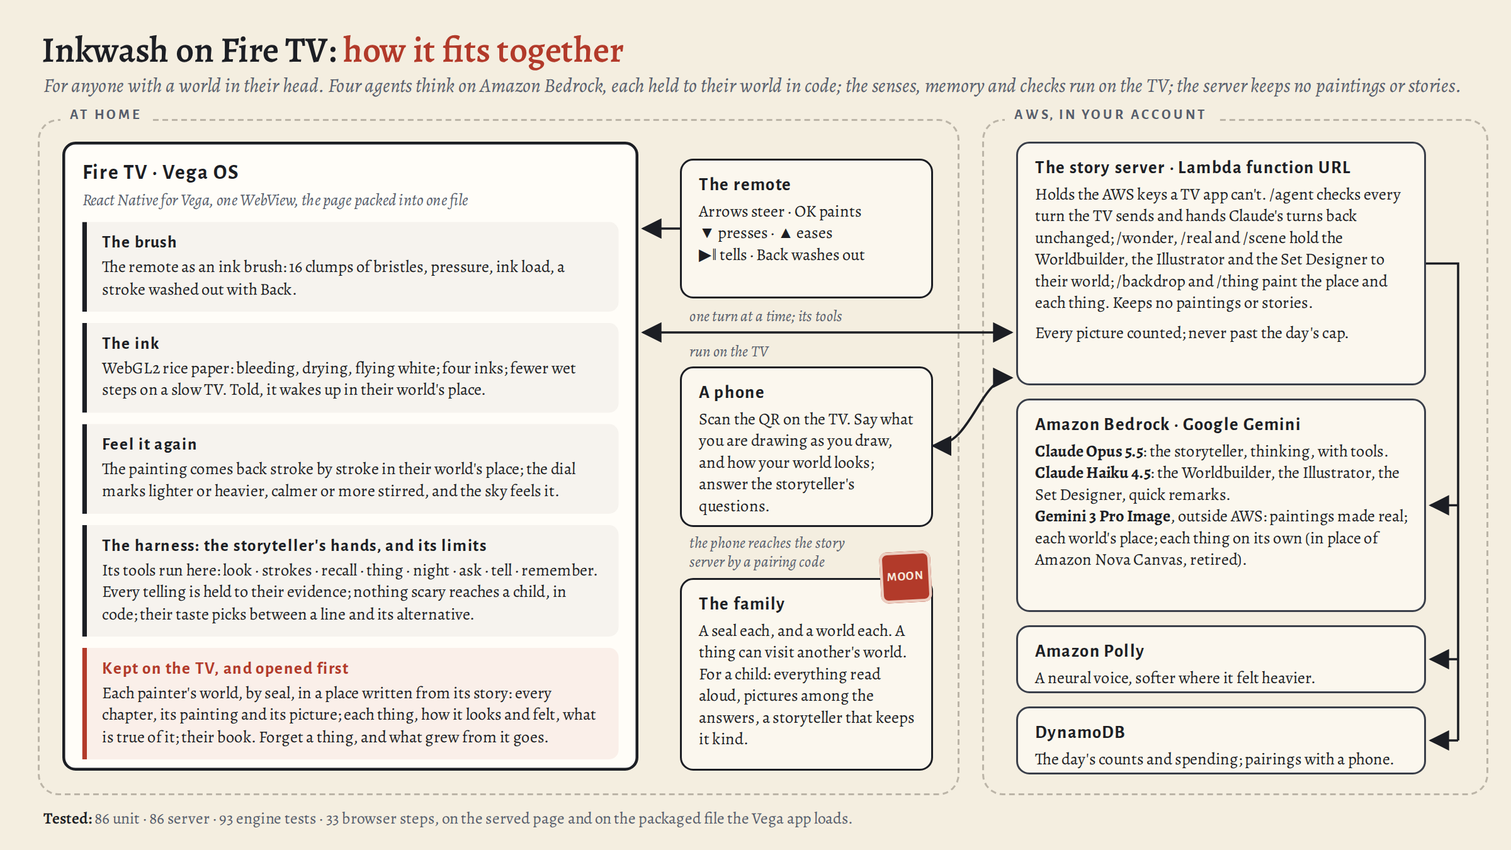
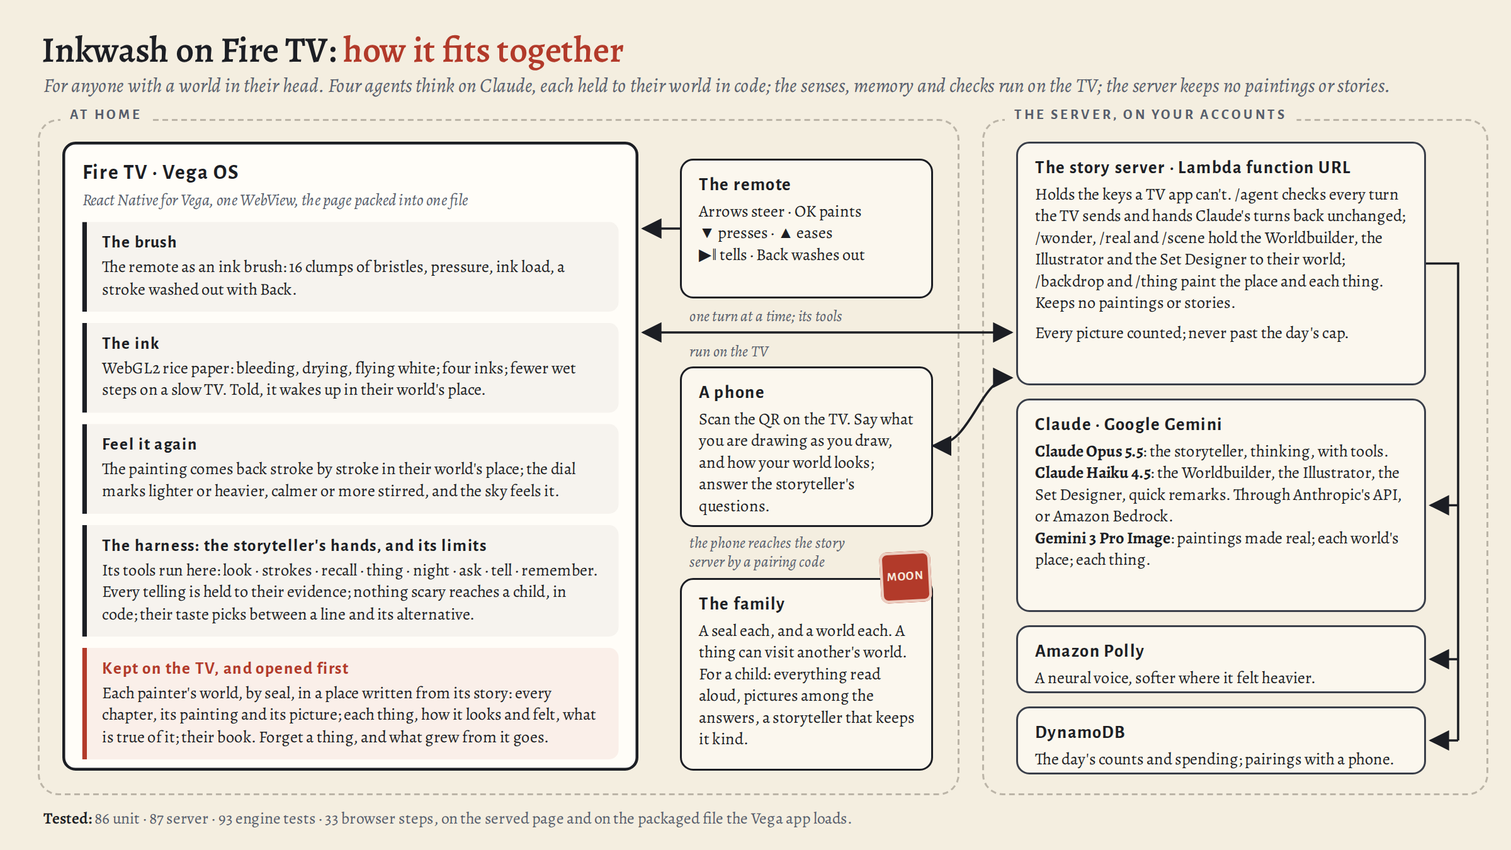
Claude through Anthropic's own API when Bedrock isn't open to the account
With an AnthropicKey, the story server calls Claude with the Anthropic
SDK's own client (the same requests and models); without one, Claude on
Amazon Bedrock as before. The privacy page says which. FRICTION_LOG entry 15.

diff --git a/tv/docs/architecture.html b/tv/docs/architecture.html
@@ -35,10 +35,10 @@
 <body>
 <div id="d">
   <h1>Inkwash on Fire TV: <span>how it fits together</span></h1>
-  <p class="sub">For anyone with a world in their head. Four agents think on Amazon Bedrock, each held to their world in code; the senses, memory and checks run on the TV; the server keeps no paintings or stories.</p>
+  <p class="sub">For anyone with a world in their head. Four agents think on Claude, each held to their world in code; the senses, memory and checks run on the TV; the server keeps no paintings or stories.</p>
 
   <div class="zone" style="left:40px; top:126px; width:972px; height:712px"><span class="label">At home</span></div>
-  <div class="zone" style="left:1040px; top:126px; width:532px; height:712px"><span class="label">AWS, in your account</span></div>
+  <div class="zone" style="left:1040px; top:126px; width:532px; height:712px"><span class="label">The server, on your accounts</span></div>
 
   <div class="box tv" style="left:66px; top:150px; width:610px; height:666px">
     <h2>Fire TV · Vega OS</h2>
@@ -66,12 +66,12 @@
 
   <div class="box aws" style="left:1076px; top:150px; width:434px; height:258px">
     <h2>The story server · Lambda function URL</h2>
-    <p>Holds the AWS keys a TV app can't. /agent checks every turn the TV sends and hands Claude's turns back unchanged; /wonder, /real and /scene hold the Worldbuilder, the Illustrator and the Set Designer to their world; /backdrop and /thing paint the place and each thing. Keeps no paintings or stories.</p>
+    <p>Holds the keys a TV app can't. /agent checks every turn the TV sends and hands Claude's turns back unchanged; /wonder, /real and /scene hold the Worldbuilder, the Illustrator and the Set Designer to their world; /backdrop and /thing paint the place and each thing. Keeps no paintings or stories.</p>
     <p style="margin-top:8px">Every picture counted; never past the day's cap.</p>
   </div>
   <div class="box aws" style="left:1076px; top:422px; width:434px; height:226px">
-    <h2>Amazon Bedrock · Google Gemini</h2>
-    <p><b>Claude Opus 5.5</b>: the storyteller, thinking, with tools.<br><b>Claude Haiku 4.5</b>: the Worldbuilder, the Illustrator, the Set Designer, quick remarks.<br><b>Gemini 3 Pro Image</b>, outside AWS: paintings made real; each world's place; each thing on its own (in place of Amazon Nova Canvas, retired).</p>
+    <h2>Claude · Google Gemini</h2>
+    <p><b>Claude Opus 5.5</b>: the storyteller, thinking, with tools.<br><b>Claude Haiku 4.5</b>: the Worldbuilder, the Illustrator, the Set Designer, quick remarks. Through Anthropic's API, or Amazon Bedrock.<br><b>Gemini 3 Pro Image</b>: paintings made real; each world's place; each thing.</p>
   </div>
   <div class="box aws" style="left:1076px; top:662px; width:434px; height:72px">
     <h2>Amazon Polly</h2>
@@ -103,7 +103,7 @@
     <text class="tag" x="730" y="600">server by a pairing code</text>
   </svg>
 
-  <p class="foot"><b>Tested:</b> 86 unit · 86 server · 93 engine tests · 33 browser steps, on the served page and on the packaged file the Vega app loads.</p>
+  <p class="foot"><b>Tested:</b> 86 unit · 87 server · 93 engine tests · 33 browser steps, on the served page and on the packaged file the Vega app loads.</p>
 </div>
 </body>
 </html>

diff --git a/tv/README.md b/tv/README.md
@@ -63,7 +63,7 @@ drawing wakes into that place, Step inside opens in it, and the TV at rest shows
     walking through their world: where each thing stands in it, the eye's walk, where it stands
     before a thing (looking up to what is in the sky), and what was told of each thing, night by
     night; and each thing made real on its own: the part of the paper painted, its white cut away, how it springs up, and how a thing hops; and the opening, a night drawn as light at an even pace, never naming who tells the story; and the ledger that caps what the demo's pictures may cost; and worlds that meet: a thing visiting one world at a time, sent home, and let go with its world or its painter; nothing frightening sent to a child's world, and a child's storyteller told only what is gentle of it; where a visitor stands; and the storyteller told what is visiting, a line naming it counted as theirs, and the visitor never kept as a thing of the world it visits; never two things of one name in a world; and picture choices, an answer naming the thing of their world it says; and pictures: how they said a thing looks, on its card and in what its picture is made from, and how much of a picture Nova Canvas cut out is left; and walking inside a world built from their picture, a press a step or a turn, never far from where it was taken; and how a long story is held together: told to them as "you" (their words with how the story says them, a line in "I" sent back and then said as "you", what is kept kept as "you"), what happens next carried on from where it stopped and kept after the story so far, the last chapters word for word and older ones as fenced recaps, the other way to say a line heard at once on "not quite" (only a way that holds), and what it remembered kept with the chapter, on its page, and gone with what is forgotten; and what goes wrong: a world that can't be read opening empty with what was kept set aside, never written over; the storyteller's tools only by name; a question for the phone sent again when a poll doesn't get through; and a family kept wrongly holding one painter to an id and to a seal; and all around a picture and painted again: the panorama's sheet, looking across it with ◀ ▶, and the look a picture is painted again in, one not yet tried first;
-  - 86 tests for the story server, among them never paid twice (a request being made waited for, one made answered again for ten minutes and not counted again, only what was made kept, a world asked for twice one world), and among them it comes alive (only a picture the size Nova Reel takes, one six-second shot moving softly through its scene, asked for and looked in on until it is made and looked for only in its own job's folder, counted each day and in the day's spending, and left still when Reel's filter turns it down), walk inside (a quick world asked for from the picture and its scene, private to the guide, looked in on until it is built, the lighter file a TV can draw handed over through the guide, none without a key or past the day's count, priced as it is asked for), all around it (only a sheet and mask the size Nova Canvas widens, the picture kept and its sides painted in its own look, a child's gentle, none past the day's pictures), Gemini (each request read as one for Gemini in the same words and shape, the best model a key has found and kept, its key in a header and never in the address, Google's filter said as a refusal, and what it can't do never asked), the Worldbuilder, the Illustrator and the Set Designer (with the looks it offers,
+  - 87 tests for the story server, among them never paid twice (a request being made waited for, one made answered again for ten minutes and not counted again, only what was made kept, a world asked for twice one world), and among them it comes alive (only a picture the size Nova Reel takes, one six-second shot moving softly through its scene, asked for and looked in on until it is made and looked for only in its own job's folder, counted each day and in the day's spending, and left still when Reel's filter turns it down), walk inside (a quick world asked for from the picture and its scene, private to the guide, looked in on until it is built, the lighter file a TV can draw handed over through the guide, none without a key or past the day's count, priced as it is asked for), all around it (only a sheet and mask the size Nova Canvas widens, the picture kept and its sides painted in its own look, a child's gentle, none past the day's pictures), Gemini (each request read as one for Gemini in the same words and shape, the best model a key has found and kept, its key in a header and never in the address, Google's filter said as a refusal, and what it can't do never asked), the Worldbuilder, the Illustrator and the Set Designer (with the looks it offers,
     and what they said of how their world looks), each sent back once when its answer can't be used, what Nova Canvas is asked (for a painting, a place, or one thing alone on white; made again from the picture it had; cut out of its white, or left for the TV to cut when it can't be), their own words for a thing first in every picture of it, a child's picture, the day's
     pictures counted, the day's spending priced and stopped at its limit, each caller's calls
     limited, phone pairings no one came back to let go, errors told without their details, the privacy page and the template held to what the code does, and
@@ -111,9 +111,9 @@ drawing wakes into that place, Step inside opens in it, and the TV at rest shows
     the sky, ▶‖ its night as it was told, read aloud, and Back walks home; and left on the seals, the TV rests, showing the family's paintings, each in its own world's place. Last, the TV is filled almost to its limit, and the
     seals say so; then to the brim, so Moon's world no longer fits: it is kept in IndexedDB
     instead, read from there after the TV is turned off and on, and moved back once there is room.
-- **Not yet tried on Bedrock.** The real storyteller and Worldbuilder have told 24 worlds, three of
+- **Not yet tried from the story server.** The real storyteller and Worldbuilder have told 24 worlds, three of
   them for 22 nights, through Claude Code on a Claude subscription (`npm run cli`), but never
-  through Amazon Bedrock, and Dream it real has never made a real picture: the tests use a
+  from the story server (through Anthropic's API or Amazon Bedrock), and Dream it real has never made a real picture: the tests use a
   stand-in picture. Pictures were built on Amazon Nova Canvas, and clips on Nova Reel; AWS retired
   both on 30 September 2026, so pictures now come from Google's Gemini image models
   (`server/gemini.mjs`, which reads each request in the shape the server already builds for Nova
@@ -128,10 +128,12 @@ drawing wakes into that place, Step inside opens in it, and the TV at rest shows
   boot, and the cloud machine this was built on has none; and it runs a WebView app only on an
   Apple Silicon Mac (not on Ubuntu, an Intel Mac or Windows), so that is where to try it.
 - **The story server** (`server/`) is written and tested against stand-ins. **It has been deployed
-  once, in part**: its voice (Polly) and its privacy page answer; the storyteller waits on AWS
-  turning on Anthropic's models for the account, and pictures on a Gemini key. Why there is a server at all: Claude runs in Amazon Bedrock,
-  and calling it takes AWS credentials, which can't go inside a TV app (anyone could pull them
-  out). So a small Lambda function in your AWS account holds them: the TV sends it each turn of
+  once, in part**: its voice (Polly) and its privacy page answer. Bedrock's models aren't open to
+  our new AWS account, so the storyteller calls Claude through Anthropic's own API instead (an
+  `AnthropicKey`; the same models, and Bedrock still works for an account that has it), and
+  pictures come from Gemini (a `GeminiKey`). Why there is a server at all: calling Claude takes a
+  key or AWS credentials, which can't go inside a TV app (anyone could pull them out). So a small
+  Lambda function in your AWS account holds them: the TV sends it each turn of
   the storyteller's, and it passes it to Claude and back. It also makes the voice (Amazon Polly),
   makes paintings real (Google's Gemini, at most `RealPicturesPerDay` a day) and pairs a
   phone. It keeps no paintings or stories. Without it, the TV still paints, keeps each world and
@@ -586,8 +588,11 @@ ink, the map and the checks are code, and only where judgement is wanted is a mo
   dream, and failing that, your line is told plainly.
 - **Voice:** Amazon Polly's neural voice Ruth. If your region doesn't offer it, choose another
   with the template's `Voice` parameter (Kajal, for Indian English).
-- **Client:** Claude is called through the Anthropic SDK's `AnthropicBedrockMantle` client.
-- **Region:** Claude in Amazon Bedrock serves Mumbai (`ap-south-1`) on its global endpoint.
+- **Client:** Claude is called through the Anthropic SDK: its `Anthropic` client with an
+  `AnthropicKey` (the model IDs read without their `anthropic.` prefix), or else its
+  `AnthropicBedrockMantle` client on Amazon Bedrock.
+- **Region:** Claude in Amazon Bedrock serves Mumbai (`ap-south-1`) on its global endpoint;
+  Anthropic's API serves any region.
 
 ## Your dream, night after night
 
@@ -866,7 +871,7 @@ node scripts/motion-sheet.mjs   # how things move, frame by frame: contact sheet
 
 cd server
 npm install
-npm test            # 86 tests, with stand-ins for Claude, Gemini, Nova Canvas, Nova Reel, World Labs, Polly and DynamoDB
+npm test            # 87 tests, with stand-ins for Claude, Gemini, Nova Canvas, Nova Reel, World Labs, Polly and DynamoDB
 npm run stand-in    # a scripted storyteller on http://localhost:5188 that calls the tools like the real one
 npm run dev         # the real storyteller, with your AWS credentials
 npm run cli         # the real storyteller through Claude Code (claude -p), on the Claude subscription
@@ -898,10 +903,13 @@ The browser test uses the Playwright that's installed globally (`npm root -g`) a
 
 You need an AWS account and the AWS SAM CLI.
 
-1. Pick the region: **us-east-1 (N. Virginia)** has Claude. Bedrock's models are on for every
-   account there (AWS retired its "Model access" page in October 2025); the one step left is
-   Anthropic's one-time use-case form, filled in once in the Bedrock console (open the chat
-   playground, choose a Claude model, and it asks). For pictures, get a Gemini API key from Google
+1. Pick the region: **us-east-1 (N. Virginia)**. For the storyteller, either make an Anthropic
+   API key at console.anthropic.com (buy a few dollars of credits, and set a spend limit there),
+   and give it as `AnthropicKey`; or leave that empty to use Claude on Amazon Bedrock, whose
+   models are on for most accounts (AWS retired its "Model access" page in October 2025) once
+   Anthropic's one-time use-case form is filled in, in the Bedrock console (open the chat
+   playground, choose a Claude model, and it asks). A new account may find Bedrock's models
+   closed to it, as ours did (FRICTION_LOG entry 15). For pictures, get a Gemini API key from Google
    AI Studio (aistudio.google.com) on a Google Cloud project with billing on (Gemini 3 Pro Image
    has no free tier), and give it as `GeminiKey`; without one, set `RealPictures=off` to keep the
    ink. Drawings are then sent to Google to be painted, and the privacy page says so.
@@ -914,9 +922,9 @@ You need an AWS account and the AWS SAM CLI.
    ```
 
    It asks for a `GuideKey` (at least 16 characters: make it long and random), an `AlertEmail`,
-   how much it may spend (`SpendPerDay`, `MonthlyBudget`), and the `GeminiKey` (type it there,
-   never into a chat; it is kept in the function's settings, which anyone who can open the function
-   in the console can read). `PicturePrice` (15 cents) is what each picture is counted at in
+   how much it may spend (`SpendPerDay`, `MonthlyBudget`), the `AnthropicKey` and the `GeminiKey`
+   (type them there, never into a chat; they are kept in the function's settings, which anyone who
+   can open the function in the console can read). `PicturePrice` (15 cents) is what each picture is counted at in
    `SpendPerDay`, so the day's cap holds Gemini's pictures too; but the AWS budget's action can't
    stop a Google bill, so set a budget on the Google Cloud project as well. `sam deploy --guided` saves your
    answers in `server/samconfig.toml`, which git ignores: it can hold the key.
@@ -948,7 +956,8 @@ You need an AWS account and the AWS SAM CLI.
 5. **Opt out of AWS keeping what Polly reads**, if you can: AWS may keep the text Amazon Polly
    speaks to improve Polly unless the account opts out, with an AI services opt-out policy in AWS
    Organizations (a free organization of one account will do). Then deploy again with
-   `AIOptOut=yes`, and the privacy page says so. Amazon Bedrock keeps nothing either way.
+   `AIOptOut=yes`, and the privacy page says so. Amazon Bedrock keeps nothing either way;
+   Anthropic's API keeps what it is sent as its commercial terms say, and doesn't train on it.
 6. **The privacy page** is at `<guide URL>privacy` (the deploy prints it as `PrivacyUrl`): what the
    TV keeps, what it sends, what the server keeps and for how long, and short terms. Set `Contact`
    to where people can write; it is shown there, so it is public. It is what an app listing asks for.
@@ -956,9 +965,9 @@ You need an AWS account and the AWS SAM CLI.
 **What it may spend.** Anyone with the URL can call it, and the key ships inside the app, so it
 keeps out casual callers only. What protects the bill:
 - **The day's spending** (`SpendPerDay`, $10 by default; `server/limits.mjs`). Every call to Claude,
-  every line Polly reads and every picture is priced as it is used, from the usage Bedrock returns,
+  every line Polly reads and every picture is priced as it is used, from the usage Claude returns,
   at list prices plus 10% (a model with no price there counts as the dearest), and added up in the
-  DynamoDB table. Once a day (UTC) reaches it, the guide asks Bedrock and Polly for nothing more
+  DynamoDB table. Once a day (UTC) reaches it, the guide asks Claude, Gemini and Polly for nothing more
   until midnight: it answers `429`, the TV tells offline, and you get an email. A call already under
   way finishes, so a day can end a little over.
 - **Never paid twice** (`server/once.mjs`). A picture, a thing's picture, a place, a clip, a world
@@ -972,7 +981,8 @@ keeps out casual callers only. What protects the bill:
 - **The month's bill:** an AWS Budget (`MonthlyBudget`, $50 by default, for the whole account, after
   any credits) emails you at half, at 80% and when the month is forecast to go over. At all of it,
   its action attaches a policy to the guide's role that denies Bedrock and Polly; reverse the action
-  in the Budgets console to go on. Billing data runs hours behind, which is why the guide counts for
+  in the Budgets console to go on. It can't stop Anthropic's or Google's bills: set a spend limit
+  in the Anthropic console and a budget on the Google Cloud project for those. Billing data runs hours behind, which is why the guide counts for
   itself too. The action can't be tried without reaching the budget, so treat the day's spending as
   the guard and the budget as the backstop.
 - **Alerts** go to `AlertEmail` when the guide answers with errors five times in five minutes, when
@@ -1041,7 +1051,7 @@ its stories itself. So:
 - **DynamoDB:** a few writes per telling, and a few per thing said on the phone.
 - **Polly:** charges per character it reads.
 
-Check the Amazon Bedrock, DynamoDB and Polly pricing pages for your region's rates.
+Check Anthropic's (or Amazon Bedrock's), Google's Gemini, DynamoDB and Polly pricing pages for current rates.
 
 **Set `CommonsSalt`** to a long random value when you deploy, and keep it. It's what makes the
 commons' hashes unreadable.
@@ -1126,7 +1136,7 @@ npm run build:release   # build/<arch>-release/inkwashtv_<arch>.vpkg
 | `server/agent-standin.mjs` | A script standing in for Claude as the storyteller, for the tests and the dev server: it calls every tool the way the storyteller would |
 | `server/guide.mjs` | The story server's core: its routes, the remarks, and the pipeline the agent replaced (`/tell`, `/readings`), kept as the fallback |
 | `server/phone.mjs` | Pairings with a phone (in memory, or in DynamoDB), and the page the phone opens |
-| `server/lambda.mjs` | The storyteller on AWS Lambda: Claude on Amazon Bedrock, pictures by Gemini (or a Nova Canvas-shaped model on Bedrock, without a key), Amazon Polly; each caller's calls limited, the day's spending checked first, and nothing but "it went wrong" told to a caller when it does |
+| `server/lambda.mjs` | The storyteller on AWS Lambda: Claude through Anthropic's API (with a key) or on Amazon Bedrock, pictures by Gemini (or a Nova Canvas-shaped model on Bedrock, without a key), Amazon Polly; each caller's calls limited, the day's spending checked first, and nothing but "it went wrong" told to a caller when it does |
 | `server/limits.mjs` | What the guide may spend in a day (every call priced from its usage and counted, in memory or in DynamoDB) and how often one caller may call |
 | `server/once.mjs` | The same paid request is never paid twice: one being made is waited for, one made is answered again for ten minutes |
 | `server/privacy.mjs` | The privacy notice and terms, served at `/privacy` |

diff --git a/tv/FRICTION_LOG.md b/tv/FRICTION_LOG.md
@@ -201,7 +201,7 @@ against Bedrock, it says so.
 - **Would have helped:** one Bedrock action to deny everything that costs, or a line about it in
   Reel's documentation.
 
-### 15. The image and video models we built on were retired, and Claude needed a form first
+### 15. The image and video models we built on were retired, and Bedrock was closed to a new account
 
 - **Doing:** turning the story server on for real in a new AWS account, two days before the deadline.
 - **What happened:** Amazon Nova Canvas, which made every picture (a drawing made real, a place, each
@@ -209,18 +209,23 @@ against Bedrock, it says so.
   30 September 2026. We had built on them without checking Bedrock's model lifecycle page. The
   image model nearest in kind on Bedrock, Titan Image Generator v2, had reached its end on 30 June
   2026. Separately, Claude on Bedrock first needs Anthropic's one-time use-case form, and for our
-  account it answered "not authorized"; a support case is open.
+  account it answered "not authorized"; then none of Bedrock's models could be reached from our
+  new account at all. A support case is open.
 - **Got past it:**
   - every picture is still asked for as one request body; a small adapter (`server/gemini.mjs`)
     reads that body and asks Google's Gemini image models for the same picture, so the TV didn't
     change, except to fit a 3:2 picture back to its 16:10 paper and to cut things out itself;
   - the privacy page says, when Gemini is on, that drawings go to Google;
   - clips are off by default, and the TV never offers them;
-  - the storyteller can run on Claude Code for recording (`npm run cli`) until Bedrock's Claude is
-    on for the account.
+  - the storyteller calls Claude through Anthropic's own API when the template is given an
+    `AnthropicKey`: the same Messages API, the same models, Bedrock's model IDs read without their
+    `anthropic.` prefix, so nothing else changed; Bedrock stays the default for an account that
+    has it.
 - **Would have helped:** a retirement notice in the console next to a model we were calling, a
-  named successor for each retired model, and the use-case form's answer saying why.
-- **Not yet verified:** Gemini is tested against a stand-in of its API, not yet called for real.
+  named successor for each retired model, and the use-case form's answer, or Bedrock's refusal,
+  saying why and what a new account needs.
+- **Not yet verified:** Gemini and Anthropic's API are tested against stand-ins, not yet called
+  for real from the story server.
 
 ## What we would ask for first
 

diff --git a/README.md b/README.md
@@ -4,7 +4,8 @@
 story, it wakes up in a place made from that story, and your world grows a piece at a time.
 
 Our entry to the Amazon Developer Hackathon 2026, Fire TV track: a Vega OS app, with a story server
-on AWS (Amazon Bedrock, Amazon Polly, AWS Lambda, DynamoDB) and pictures from Google's Gemini.
+on AWS (AWS Lambda, Amazon Polly, DynamoDB), Claude as its storyteller and pictures from Google's
+Gemini.
 
 ![Star's world on the TV: everything drawn in it standing where it first came](tv/docs/gallery/02-their-world.jpg)
 
@@ -12,7 +13,7 @@ on AWS (Amazon Bedrock, Amazon Polly, AWS Lambda, DynamoDB) and pictures from Go
 
 - **The remote is a brush.** It draws straight into your world, in lines of light. Two buttons say
   how it felt: brighter or darker, calmer or wilder.
-- **A storyteller tells it back.** Claude Opus 5.5 on Amazon Bedrock sees the drawing as you see
+- **A storyteller tells it back.** Claude Opus 5.5 (through Anthropic's API, or on Amazon Bedrock) sees the drawing as you see
   it, asks a question or two (answer on your phone, or with the remote), and tells it as a story, a
   line at a time, read aloud by Amazon Polly. ▲ keeps a line; ▼ says "not quite" and hears it
   another way at once.
@@ -64,7 +65,7 @@ at a daily spending limit. Their worlds stay on their TV.
 
 ```sh
 cd tv && npm install && npm test && npm run e2e   # 86 unit tests; 33 browser steps at 1920 x 1080
-cd server && npm install && npm test              # 80 tests of the story server
+cd server && npm install && npm test              # 87 tests of the story server
 cd ../../engine && node --test test.mjs personal/test.mjs dreams/test.mjs   # 93 tests of the engine
 ```
 
@@ -75,7 +76,8 @@ single file, opened from `file://` as the Vega app loads it.
 ## What hasn't been tried yet
 
 - **No paid call has been made from the TV.** The real storyteller and Worldbuilder have told 24
-  worlds through Claude Code on a Claude subscription, but never through Amazon Bedrock, and no
+  worlds through Claude Code on a Claude subscription, but never from the story server (Amazon
+  Bedrock's models aren't open to our new AWS account, so it calls Anthropic's API instead), and no
   real picture, panorama or World Labs world has been made: the tests use stand-ins, Gemini's
   API among them. *Watch it come alive* (six seconds of Amazon Nova Reel) is off: AWS retired
   Nova Reel too.
